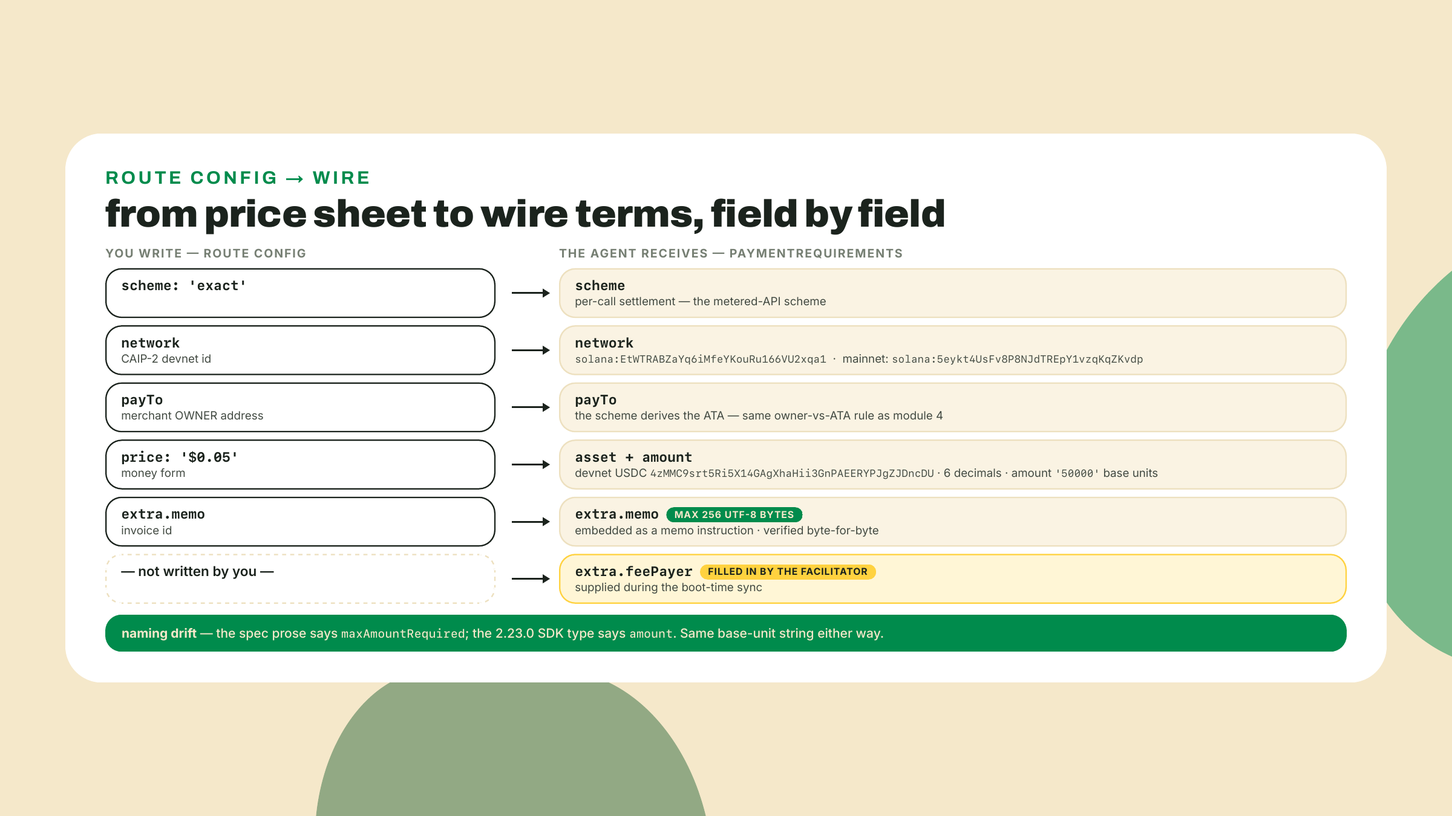
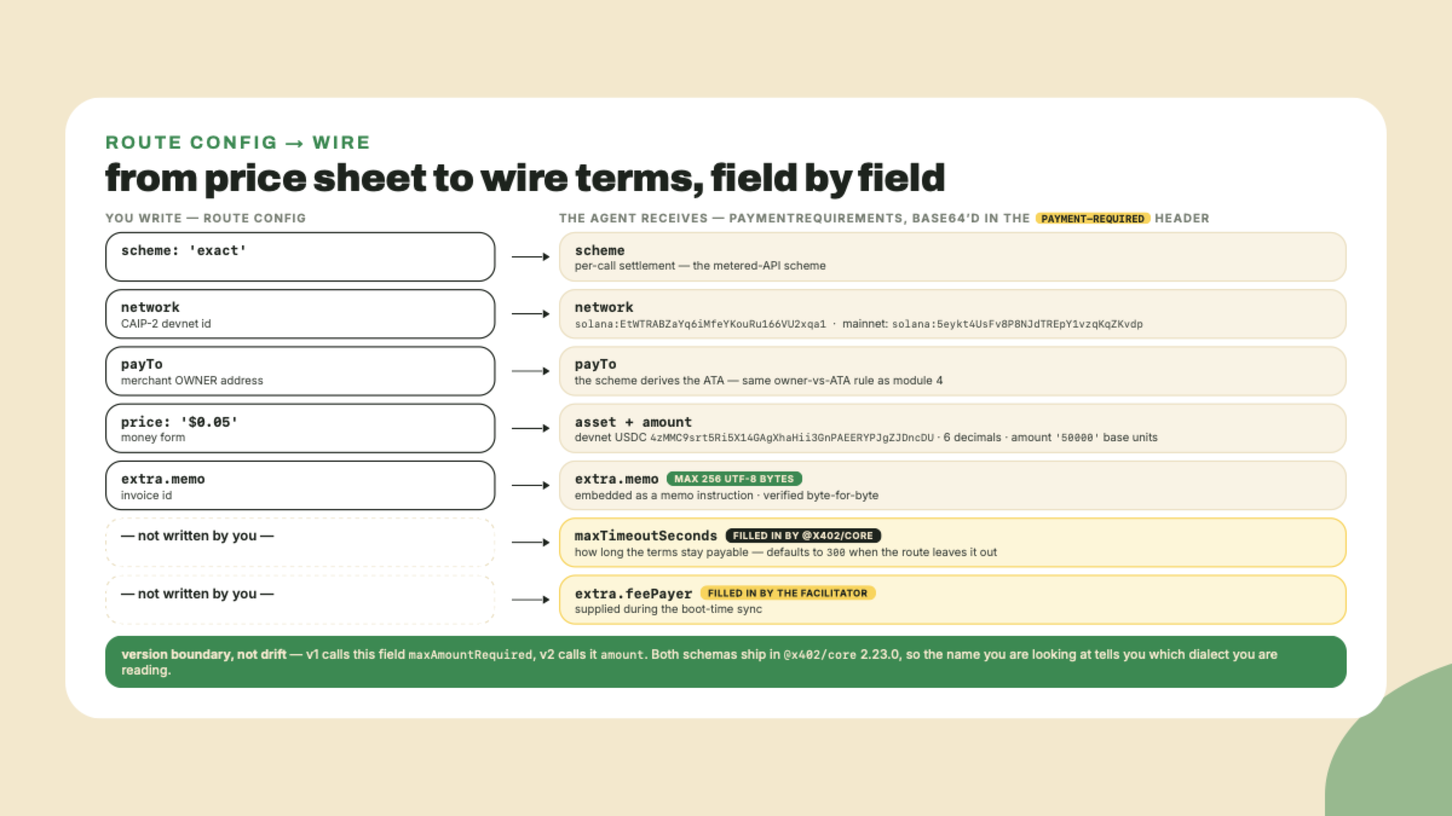
fix(payments): redraw the module 7 visuals to the corrected v2 wire shape
The three module 7 visuals still rendered the v1 body-carried shape that the
previous commit corrected in prose. Redrawn from the same probe evidence and
re-rendered through weasyprint + sips.

- m07-l1/v02: the headers band becomes three columns, one per v2 header, each
  with its direction, its job and its v1 origin (PAYMENT-REQUIRED is new in v2
  and replaces the 402 response body); adds a rule strip carrying "read the
  header, never the body" and the {} / Content-Length: 2 fact.
- m07-l1/v03: beat 2 becomes "402 + body {} + PAYMENT-REQUIRED" so all three
  headers share the yellow chip treatment, with the challenge and terms field
  lists corrected to amount, payTo and maxTimeoutSeconds; beat 3 now transfers
  amount of the asset to the payTo owner.
- m07-l2/v01: the wire column is labelled as arriving in the PAYMENT-REQUIRED
  header, gains a maxTimeoutSeconds row defaulted to 300 by @x402/core, and the
  footer states the v1/v2 version boundary instead of a spec-vs-SDK drift.

All three PNGs re-render at 2400x1350 and stay under 1 MiB. .stbr-decor sources
untouched; alt text updated to match what the images now show.

diff --git a/courses/solana-payments-commerce/visual-src/m07-l1/v02-comparison.html b/courses/solana-payments-commerce/visual-src/m07-l1/v02-comparison.html
@@ -11,9 +11,9 @@
 </style></head>
 <body>
 <!-- comparison: The x402 v2 surface in one card
-     purpose: fix the v1-to-v2 renames and the scheme/transport grid before the reader traces a flow through one cell of it
-     data: headers, v1 -> v2: X-PAYMENT -> PAYMENT-SIGNATURE (client's payment proof) ; X-PAYMENT-RESPONSE -> PAYMENT-RESPONSE (server's settlement receipt) network ids: CAIP-2 form namespace:reference; Solana clusters under the solana: namespace, reference derived from the genesis hash schemes (4): exact (precise amount per call) | upto (ceiling, settle usage) | auth-capture (authorize now, capture later) | batch-settlement (accumulate, settle together) transports (3): http | mcp (Model Context Protocol tool calls) | a2a (agent-to-agent) this lesson's cell: exact scheme x http transport on SVM = exact-SVM version caution: v2 surface stable, mainnet ship date unpublished as of 2026-08-22; v1 still live in the wild
-     prompt: A single reference card in four stacked bands: a header-rename band showing the two v1 names crossed through with arrows to their v2 names; a CAIP-2 band showing the namespace:reference shape; a 4x3 grid band of schemes (rows) by transports (columns) with the exact x http cell highlighted and labeled exact-SVM; a footer band with the version caution. Structure only; house brand styles apply.
+     purpose: fix the three v2 headers, the header-not-body rule, and the scheme/transport grid before the reader traces a flow through one cell of it
+     data: headers (3, v1 -> v2): PAYMENT-REQUIRED (server->client, the challenge; NEW IN V2 - v1 sent this in the 402 response body) ; X-PAYMENT -> PAYMENT-SIGNATURE (client->server, payment proof) ; X-PAYMENT-RESPONSE -> PAYMENT-RESPONSE (server->client, settlement receipt) rule: read the header, never the body - a v2 402's body is {} with Content-Length: 2, on the challenge, on a rejected payment and on a failed settlement alike network ids: CAIP-2 form namespace:reference; Solana clusters under the solana: namespace, reference derived from the genesis hash schemes (4): exact (precise amount per call) | upto (ceiling, settle usage) | auth-capture (authorize now, capture later) | batch-settlement (accumulate, settle together) transports (3): http | mcp (Model Context Protocol tool calls) | a2a (agent-to-agent) this lesson's cell: exact scheme x http transport on SVM = exact-SVM version caution: v2 surface stable, mainnet ship date unpublished as of 2026-08-22; v1 still live in the wild
+     prompt: A single reference card in four stacked bands: a headers band of three columns, one per v2 header, each naming its direction, its job and what it was in v1, with a rule strip under them stating read the header never the body; a CAIP-2 band showing the namespace:reference shape; a 4x3 grid band of schemes (rows) by transports (columns) with the exact x http cell highlighted and labeled exact-SVM; a footer band with the version caution. Structure only; house brand styles apply.
      BUILD .viz as on-brand HTML per skills/content-gen/references/visual-rendering.md.
      Header: <div class="stbr-eyebrow">..</div> + <h2 class="viz-title">..</h2>.
      Leave the .stbr-decor block untouched (per-asset brand decoration).
@@ -32,18 +32,32 @@
   .band-tag { font-family:var(--font-display); font-weight:800; font-size:13px;
               letter-spacing:0.12em; text-transform:uppercase; color:var(--stbr-green);
               margin-bottom:8px; }
-  .renames { display:flex; gap:32px; }
-  .ren { flex:1 1 0; display:flex; align-items:center; gap:12px; }
-  .old { font-family:var(--font-mono); font-size:16px; font-weight:600;
-         color:var(--text-muted); text-decoration:line-through; }
-  .arr { display:flex; align-items:center; flex:0 0 44px; }
-  .arr .l { flex:1 1 auto; border-top:2.5px solid var(--stbr-dark); }
-  .arr .h { width:0; height:0; border-top:6px solid transparent;
-            border-bottom:6px solid transparent; border-left:9px solid var(--stbr-dark); }
-  .new { font-family:var(--font-mono); font-size:16.5px; font-weight:700;
-         color:var(--text-on-brand); background:var(--surface-brand);
-         border-radius:var(--radius-md); padding:5px 12px; }
-  .rsub { font-family:var(--font-body); font-size:12.5px; color:var(--text-secondary); }
+  .hdrs { display:grid; grid-template-columns:1fr 1fr 1fr; gap:14px; }
+  .hcard { border:1.5px solid var(--border-subtle); border-radius:var(--radius-lg);
+           background:var(--surface-page); padding:9px 14px 10px; }
+  .hname { font-family:var(--font-mono); font-size:16px; font-weight:700;
+           color:var(--text-on-brand); background:var(--surface-brand);
+           border-radius:var(--radius-md); padding:4px 11px; display:inline-block; }
+  .hdir { font-family:var(--font-body); font-weight:700; font-size:11px;
+          letter-spacing:0.07em; text-transform:uppercase; color:var(--stbr-green);
+          margin-top:6px; }
+  .hrole { font-family:var(--font-body); font-size:12.5px; color:var(--text-primary);
+           margin-top:1px; }
+  .hwas { font-family:var(--font-body); font-size:11.5px; color:var(--text-secondary);
+          margin-top:4px; }
+  .hwas .old { font-family:var(--font-mono); font-size:11.5px; font-weight:600;
+               color:var(--text-muted); text-decoration:line-through; }
+  .hwas .tagnew { font-family:var(--font-display); font-weight:800; font-size:10.5px;
+                  letter-spacing:0.07em; text-transform:uppercase; color:var(--stbr-dark);
+                  background:var(--stbr-yellow); border-radius:var(--radius-pill);
+                  padding:1px 8px; }
+  .rule { margin-top:12px; border:2px solid var(--stbr-dark); border-radius:var(--radius-md);
+          background:var(--stbr-yellow); padding:8px 16px; display:flex;
+          align-items:baseline; gap:12px; }
+  .rule .lead { font-family:var(--font-display); font-weight:900; font-size:15px;
+                color:var(--stbr-dark); white-space:nowrap; }
+  .rule .body { font-family:var(--font-body); font-size:12.5px; color:var(--stbr-dark); }
+  .rule .mono { font-family:var(--font-mono); font-weight:700; font-size:12px; }
   .caip { display:flex; align-items:center; gap:20px; }
   .caip .shape { font-family:var(--font-mono); font-size:19px; font-weight:700;
                  color:var(--text-primary); background:var(--surface-page);
@@ -74,20 +88,33 @@
     <div class="stbr-eyebrow">x402 v2 &middot; one reference card</div>
     <h2 class="viz-title">the x402 v2 surface in one card</h2>
     <div class="band" style="margin-top:0;">
-      <div class="band-tag">headers &mdash; v1 renamed in v2</div>
-      <div class="renames">
-        <div class="ren">
-          <span class="old">X-PAYMENT</span>
-          <div class="arr"><div class="l"></div><div class="h"></div></div>
-          <span class="new">PAYMENT-SIGNATURE</span>
-          <span class="rsub">client&rsquo;s payment proof</span>
+      <div class="band-tag">headers &mdash; the whole exchange rides three</div>
+      <div class="hdrs">
+        <div class="hcard">
+          <span class="hname">PAYMENT-REQUIRED</span>
+          <div class="hdir">server &rarr; client</div>
+          <div class="hrole">the challenge &mdash; terms of payment, base64 JSON</div>
+          <div class="hwas"><span class="tagnew">new in v2</span> &nbsp;v1 sent this in the
+            <span class="old">402 response body</span></div>
         </div>
-        <div class="ren">
-          <span class="old">X-PAYMENT-RESPONSE</span>
-          <div class="arr"><div class="l"></div><div class="h"></div></div>
-          <span class="new">PAYMENT-RESPONSE</span>
-          <span class="rsub">server&rsquo;s settlement receipt</span>
+        <div class="hcard">
+          <span class="hname">PAYMENT-SIGNATURE</span>
+          <div class="hdir">client &rarr; server</div>
+          <div class="hrole">the payment proof &mdash; partially signed transaction</div>
+          <div class="hwas">renamed &mdash; v1 called it <span class="old">X-PAYMENT</span></div>
         </div>
+        <div class="hcard">
+          <span class="hname">PAYMENT-RESPONSE</span>
+          <div class="hdir">server &rarr; client</div>
+          <div class="hrole">the settlement receipt &mdash; signature or failure reason</div>
+          <div class="hwas">renamed &mdash; v1 called it <span class="old">X-PAYMENT-RESPONSE</span></div>
+        </div>
+      </div>
+      <div class="rule">
+        <span class="lead">read the header, never the body</span>
+        <span class="body">a v2 402&rsquo;s body is <span class="mono">{}</span> under
+          <span class="mono">Content-Length: 2</span> &mdash; on the challenge, on a rejected
+          payment, and on a failed settlement alike</span>
       </div>
     </div>
     <div class="band">

diff --git a/courses/solana-payments-commerce/visual-src/m07-l1/v03-flowchart.html b/courses/solana-payments-commerce/visual-src/m07-l1/v03-flowchart.html
@@ -11,9 +11,9 @@
 </style></head>
 <body>
 <!-- flowchart: The exact-SVM round-trip, all four beats
-     purpose: make the full challenge-pay-settle-receipt loop traceable, with the two headers and the facilitator endpoints in their exact positions
-     data: 1. bot -> merchant API: GET /price (no payment header) 2. merchant API -> bot: 402 + PaymentRequirements JSON (scheme, network CAIP-2 id, asset, maxAmountRequired, extra.feePayer, extra.memo) 3. bot: builds versioned tx, transfers asset to merchant with memo, fee-payer slot = extra.feePayer, PARTIALLY signs (owner slot only) 4. bot -> merchant API: GET /price + PAYMENT-SIGNATURE header (base64 partially signed tx) 5. merchant API -> facilitator /verify: inspect only, would this satisfy the terms? no signing, no submission 6. merchant API -> facilitator /settle: facilitator ADDS fee-payer signature, submits to network 7. merchant API -> bot: 200 + response body + PAYMENT-RESPONSE header (settlement receipt)
-     prompt: Vertical sequence flowchart with three lanes: bot, merchant API, facilitator. Seven numbered arrows as listed in data. Highlight arrow 4's PAYMENT-SIGNATURE header and arrow 7's PAYMENT-RESPONSE header as labeled tags. Mark the /verify step read-only and the /settle step with a signature-added badge. Structure only; house brand styles apply.
+     purpose: make the full challenge-pay-settle-receipt loop traceable, with all three headers and the facilitator endpoints in their exact positions
+     data: 1. bot -> merchant API: GET /price (no payment header) 2. merchant API -> bot: 402, body {}, PAYMENT-REQUIRED header carries the challenge (x402Version, error, resource, accepts[]: scheme, network CAIP-2 id, amount, asset, payTo, maxTimeoutSeconds, extra.feePayer, extra.memo) 3. bot: builds versioned tx, transfers amount of asset to the payTo owner with memo, fee-payer slot = extra.feePayer, PARTIALLY signs (owner slot only) 4. bot -> merchant API: GET /price + PAYMENT-SIGNATURE header (base64 partially signed tx) 5. merchant API -> facilitator /verify: inspect only, would this satisfy the terms? no signing, no submission 6. merchant API -> facilitator /settle: facilitator ADDS fee-payer signature, submits to network 7. merchant API -> bot: 200 + response body + PAYMENT-RESPONSE header (settlement receipt) legend: every protocol field rides a header; only the 200 carries a real body
+     prompt: Vertical sequence flowchart with three lanes: bot, merchant API, facilitator. Seven numbered arrows as listed in data. Show arrow 2's PAYMENT-REQUIRED, arrow 4's PAYMENT-SIGNATURE and arrow 7's PAYMENT-RESPONSE headers as the same highlighted tag treatment, and mark arrow 2's body as empty. Mark the /verify step read-only and the /settle step with a signature-added badge. Structure only; house brand styles apply.
      BUILD .viz as on-brand HTML per skills/content-gen/references/visual-rendering.md.
      Header: <div class="stbr-eyebrow">..</div> + <h2 class="viz-title">..</h2>.
      Leave the .stbr-decor block untouched (per-asset brand decoration).
@@ -55,6 +55,13 @@
   .hdr { font-family:var(--font-mono); font-weight:700; font-size:13.5px;
          color:var(--stbr-dark); background:var(--stbr-yellow);
          border-radius:var(--radius-md); padding:3px 10px; }
+  .empty { font-family:var(--font-mono); font-size:12.5px; color:var(--text-muted);
+           border:1.5px dashed var(--border-subtle); border-radius:var(--radius-md);
+           padding:2px 8px; }
+  .empty b { font-weight:700; color:var(--text-secondary); }
+  .legend { font-family:var(--font-body); font-size:13.5px; color:var(--text-secondary);
+            margin:0 0 6px; }
+  .legend b { color:var(--text-primary); font-weight:700; }
   .bdg { font-family:var(--font-body); font-weight:700; font-size:11px;
          color:var(--stbr-green); background:rgba(0,139,76,0.10);
          border:1.5px solid rgba(0,139,76,0.4); border-radius:var(--radius-pill);
@@ -71,6 +78,8 @@
     <div class="fc-head">
       <div class="stbr-eyebrow">exact-svm &middot; challenge &rarr; pay &rarr; settle &rarr; receipt</div>
       <h2 class="viz-title">the exact-SVM round-trip, all four beats</h2>
+      <div class="legend">Every protocol field rides one of the three
+        <b>yellow header chips</b> &mdash; the 402&rsquo;s body is empty, and only the 200 carries a real one.</div>
     </div>
     <div class="seq">
       <div class="spine" style="left:209px; top:46px; height:560px;"></div>
@@ -86,38 +95,42 @@
         <div class="srow"><div class="l"></div><div class="hr"></div></div>
       </div>
 
-      <div class="step" style="left:210px; width:518px; top:122px;">
-        <div class="slab"><span class="n">2</span><span class="t">402 + PaymentRequirements JSON</span></div>
+      <div class="step" style="left:210px; width:518px; top:116px;">
+        <div class="slab"><span class="n">2</span><span class="t">402</span>
+          <span class="empty">body <b>{}</b></span> + <span class="hdr">PAYMENT-REQUIRED</span></div>
         <div class="srow"><div class="hl"></div><div class="l"></div></div>
-        <div class="sub">scheme &middot; network CAIP-2 id &middot; asset &middot; maxAmountRequired &middot; extra.feePayer &middot; extra.memo</div>
+        <div class="sub" style="margin-left:-72px; margin-right:-72px;">challenge:
+          x402Version &middot; error &middot; resource &middot; accepts[]<br>
+          terms: scheme &middot; network &middot; <b>amount</b> &middot; asset &middot; payTo &middot;
+          maxTimeoutSeconds &middot; extra.feePayer &middot; extra.memo</div>
       </div>
 
-      <div class="step" style="left:26px; width:560px; top:210px;">
+      <div class="step" style="left:26px; width:560px; top:226px;">
         <div class="selfnote">
           <div class="st"><span class="n">3</span><span class="tt">bot builds &amp; PARTIALLY signs</span></div>
-          <div class="bd">versioned tx: transfers the asset to the merchant with the memo; fee-payer slot = <b>extra.feePayer</b>; signs the <b>owner slot only</b> &mdash; tx stays inert</div>
+          <div class="bd">versioned tx: transfers <b>amount</b> of the <b>asset</b> to the <b>payTo</b> owner with the memo; fee-payer slot = <b>extra.feePayer</b>; signs the <b>owner slot only</b> &mdash; tx stays inert</div>
         </div>
       </div>
 
-      <div class="step" style="left:210px; width:518px; top:314px;">
+      <div class="step" style="left:210px; width:518px; top:322px;">
         <div class="slab"><span class="n">4</span><span class="t">GET /price</span> + <span class="hdr">PAYMENT-SIGNATURE</span></div>
         <div class="srow"><div class="l"></div><div class="hr"></div></div>
         <div class="sub">base64 partially signed transaction</div>
       </div>
 
-      <div class="step" style="left:728px; width:518px; top:396px;">
+      <div class="step" style="left:728px; width:518px; top:402px;">
         <div class="slab"><span class="n">5</span><span class="t">/verify</span><span class="bdg">read-only &middot; signs nothing</span></div>
         <div class="srow"><div class="l"></div><div class="hr"></div></div>
         <div class="sub">inspect only: would this satisfy the terms? no signing, no submission</div>
       </div>
 
-      <div class="step" style="left:728px; width:518px; top:472px;">
+      <div class="step" style="left:728px; width:518px; top:478px;">
         <div class="slab"><span class="n">6</span><span class="t">/settle</span><span class="bdg">+ fee-payer signature</span></div>
         <div class="srow"><div class="l"></div><div class="hr"></div></div>
         <div class="sub">facilitator ADDS the fee-payer signature, submits to the network</div>
       </div>
 
-      <div class="step" style="left:210px; width:518px; top:544px;">
+      <div class="step" style="left:210px; width:518px; top:550px;">
         <div class="slab"><span class="n">7</span><span class="t">200 + response body</span> + <span class="hdr">PAYMENT-RESPONSE</span></div>
         <div class="srow"><div class="hl"></div><div class="l"></div></div>
         <div class="sub">settlement receipt</div>

diff --git a/courses/solana-payments-commerce/visual-src/m07-l2/v01-comparison.html b/courses/solana-payments-commerce/visual-src/m07-l2/v01-comparison.html
@@ -11,9 +11,9 @@
 </style></head>
 <body>
 <!-- comparison: From price sheet to wire terms, field by field
-     purpose: map each route-config field the merchant writes to the PaymentRequirements field the agent receives, including the two the merchant never writes
-     data: scheme 'exact' -> wire scheme: per-call settlement, the metered-API scheme network CAIP-2 devnet id -> wire network: solana:EtWTRABZaYq6iMfeYKouRu166VU2xqa1 (mainnet: solana:5eykt4UsFv8P8NJdTREpY1vzqKqZKvdp) payTo merchant OWNER address -> wire payTo: scheme derives the ATA, same owner-vs-ATA rule as module 4 price '$0.05' money form -> wire asset + amount: resolved to devnet USDC 4zMMC9srt5Ri5X14GAgXhaHii3GnPAEERYPJgZJDncDU, 6 decimals, '50000' base units extra.memo invoice id -> wire extra.memo: max 256 UTF-8 bytes, embedded as a memo instruction, verified byte-for-byte (not written by you) -> wire extra.feePayer: supplied by the facilitator during the boot-time sync naming drift: spec prose says maxAmountRequired; the 2.23.0 SDK type says amount; same base-unit string
-     prompt: Two-column mapping card, merchant-side field on the left, wire-side field on the right, one connecting arrow per row as in data. Give the feePayer row a distinct filled-in-by-facilitator treatment and the memo row a byte-ceiling badge. Footer band carries the naming-drift line. Structure only; house brand styles apply.
+     purpose: map each route-config field the merchant writes to the PaymentRequirements field the agent receives in the PAYMENT-REQUIRED header, including the two the merchant never writes
+     data: the whole right column arrives base64'd in the PAYMENT-REQUIRED response header, not in the 402's body scheme 'exact' -> wire scheme: per-call settlement, the metered-API scheme network CAIP-2 devnet id -> wire network: solana:EtWTRABZaYq6iMfeYKouRu166VU2xqa1 (mainnet: solana:5eykt4UsFv8P8NJdTREpY1vzqKqZKvdp) payTo merchant OWNER address -> wire payTo: scheme derives the ATA, same owner-vs-ATA rule as module 4 price '$0.05' money form -> wire asset + amount: resolved to devnet USDC 4zMMC9srt5Ri5X14GAgXhaHii3GnPAEERYPJgZJDncDU, 6 decimals, '50000' base units extra.memo invoice id -> wire extra.memo: max 256 UTF-8 bytes, embedded as a memo instruction, verified byte-for-byte (not written by you) -> wire maxTimeoutSeconds: @x402/core fills in 300 when the route leaves it out (not written by you) -> wire extra.feePayer: supplied by the facilitator during the boot-time sync version boundary: v1 calls the amount field maxAmountRequired, v2 calls it amount; both schemas ship in @x402/core 2.23.0, so the field name tells you which dialect you are reading
+     prompt: Two-column mapping card, merchant-side field on the left, wire-side field on the right, one connecting arrow per row as in data. Give the two never-written rows a distinct filled-in treatment (facilitator for feePayer, SDK default for maxTimeoutSeconds) and the memo row a byte-ceiling badge. Footer band carries the version-boundary line. Structure only; house brand styles apply.
      BUILD .viz as on-brand HTML per skills/content-gen/references/visual-rendering.md.
      Header: <div class="stbr-eyebrow">..</div> + <h2 class="viz-title">..</h2>.
      Leave the .stbr-decor block untouched (per-asset brand decoration).
@@ -47,9 +47,13 @@
            margin-left: 8px; vertical-align: 1px; }
   .badge-bytes { background: var(--stbr-emerald); color: var(--stbr-cream); }
   .badge-fac { background: var(--stbr-yellow); color: var(--stbr-dark); }
+  .badge-sdk { background: var(--stbr-dark); color: var(--stbr-cream); }
   .rowfee .mfield { border-style: dashed; border-color: var(--border-subtle);
                     color: var(--text-muted); background: var(--surface-card); }
   .rowfee .wfield { background: #FFF6D6; border-color: var(--stbr-yellow); }
+  .hdrchip { font: 700 11.5px var(--font-mono); text-transform: none; letter-spacing: 0;
+             color: var(--stbr-dark); background: var(--stbr-yellow);
+             border-radius: var(--radius-sm); padding: 1px 7px; }
   .footband { margin-top: 12px; background: var(--surface-brand); color: var(--text-on-brand);
               border-radius: var(--radius-lg); padding: 12px 18px;
               font: 500 14px var(--font-body); }
@@ -60,7 +64,9 @@
   <div class="stbr-eyebrow">route config &rarr; wire</div>
   <h2 class="viz-title">from price sheet to wire terms, field by field</h2>
   <div class="lanehead">
-    <div>you write &mdash; route config</div><div></div><div>the agent receives &mdash; PaymentRequirements</div>
+    <div>you write &mdash; route config</div><div></div>
+    <div>the agent receives &mdash; PaymentRequirements, base64&rsquo;d in the
+      <span class="hdrchip">PAYMENT-REQUIRED</span> header</div>
   </div>
 
   <div class="maprow">
@@ -103,13 +109,22 @@
   <div class="maprow rowfee">
     <div class="mfield"><div class="fname" style="font-family:var(--font-body);font-weight:600;">&mdash; not written by you &mdash;</div></div>
     <div class="arr"><i></i></div>
+    <div class="wfield"><div class="fname">maxTimeoutSeconds<span class="badge badge-sdk">filled in by @x402/core</span></div>
+      <div class="fsub">how long the terms stay payable &mdash; defaults to
+        <span class="mono">300</span> when the route leaves it out</div></div>
+  </div>
+
+  <div class="maprow rowfee">
+    <div class="mfield"><div class="fname" style="font-family:var(--font-body);font-weight:600;">&mdash; not written by you &mdash;</div></div>
+    <div class="arr"><i></i></div>
     <div class="wfield"><div class="fname">extra.feePayer<span class="badge badge-fac">filled in by the facilitator</span></div>
       <div class="fsub">supplied during the boot-time sync</div></div>
   </div>
 
-  <div class="footband"><strong>naming drift</strong> &mdash; the spec prose says
-    <span class="mono">maxAmountRequired</span>; the 2.23.0 SDK type says
-    <span class="mono">amount</span>. Same base-unit string either way.</div>
+  <div class="footband"><strong>version boundary, not drift</strong> &mdash; v1 calls this field
+    <span class="mono">maxAmountRequired</span>, v2 calls it <span class="mono">amount</span>.
+    Both schemas ship in <span class="mono">@x402/core</span> 2.23.0, so the name you are looking
+    at tells you which dialect you are reading.</div>
 </div>
 </div>
 </body></html>

diff --git a/courses/solana-payments-commerce/lessons/m07-l1/intro.md b/courses/solana-payments-commerce/lessons/m07-l1/intro.md
@@ -55,7 +55,7 @@ Above the wire format sit two axes of variety. First, four payment schemes, whic
 
 Second, three transports, which answer "what protocol carries the challenge": plain **http**, which you have been picturing all along; **mcp**, the Model Context Protocol that agent frameworks use for tool calls; and **a2a**, agent-to-agent messaging. The scheme-times-transport grid is why the spec reads bigger than it feels. Your merchant seat cares about one cell today: the exact scheme over http, targeting the SVM. The spec calls that combination exact-SVM.
 
-![Reference card pairing the renamed v1 and v2 x402 headers with the CAIP-2 network format and a four-schemes-by-three-transports grid, exact over HTTP highlighted.](assets/v02-comparison.png)
+![Reference card giving each of the three v2 headers its direction, its job, and its v1 origin, under a rule strip reading the header never the body, beside the CAIP-2 network format and a four-schemes-by-three-transports grid with exact over HTTP highlighted.](assets/v02-comparison.png)
 
 ### One request, end to end: the exact-SVM flow
 
@@ -71,7 +71,7 @@ Under those sits `accepts`, an array of one or more PaymentRequirements objects,
 
 **Beat four, the receipt.** Settlement confirmed, the server finally does what the bot asked for in the first place: it answers 200 with the quote, plus a PAYMENT-RESPONSE header carrying the settlement details. The bot got its data, the merchant got paid, and the whole exchange fit inside one retried HTTP request. No account creation, no API key issuance, no card on file. From your log's point of view, a 402 followed milliseconds later by a 200.
 
-![Sequence diagram following one metered call from the 402 challenge through the agent's partial signature to the facilitator's verify and settle steps and the receipt header.](assets/v03-flowchart.png)
+![Sequence diagram following one metered call from an empty-bodied 402 carrying its challenge in the PAYMENT-REQUIRED header, through the agent's partial signature, to the facilitator's verify and settle steps and the receipt header.](assets/v03-flowchart.png)
 
 The signature choreography is the part people get wrong on first read, so pin it down. The client signs as owner and never as fee payer. `/verify` signs nothing. `/settle` adds exactly one signature, the fee payer's, and broadcasts. If you can recite that sentence, you can debug half of the confused x402 threads you will ever read.
 

diff --git a/courses/solana-payments-commerce/lessons/m07-l2/intro.md b/courses/solana-payments-commerce/lessons/m07-l2/intro.md
@@ -55,7 +55,7 @@ Each field is a decision you already have the vocabulary for. `scheme: 'exact'` 
 
 And `extra.memo` is the field this lesson orbits: a string of at most 256 bytes that the paying agent must embed in the payment transaction as a memo instruction, verified byte-for-byte by the facilitator. It is your invoice id, riding the payment itself. Note the ceiling is measured in UTF-8 bytes, not characters; an invoice id with multibyte characters spends the budget faster than its length suggests, which is why the challenge makes you measure it properly.
 
-![Field-by-field mapping from the merchant's route config to the PaymentRequirements the agent receives, with the asset in base units and the fee payer supplied by the facilitator.](assets/v01-comparison.png)
+![Field-by-field mapping from the merchant's route config to the PaymentRequirements the agent decodes out of the PAYMENT-REQUIRED header, with the asset in base units, a maxTimeoutSeconds the SDK defaults to 300, a fee payer supplied by the facilitator, and a footer marking maxAmountRequired and amount as a v1-to-v2 boundary.](assets/v01-comparison.png)
 
 One thing to absorb before it costs you an afternoon, and absorb it as a version boundary rather than a drift: the amount field is called `maxAmountRequired` in v1 and `amount` in v2. That is not the spec disagreeing with the SDK. Open `@x402/core` 2.23.0 and both schemas are sitting in the same build, `PaymentRequirementsV1Schema` with `maxAmountRequired` and `PaymentRequirementsV2Schema` with `amount`, because the package speaks both dialects on purpose. So the field name is itself a version signal: if you are looking at `maxAmountRequired`, you are looking at v1 terms, and everything else about that challenge, including the fact that it arrived in a response body rather than a header, follows from that.
 
